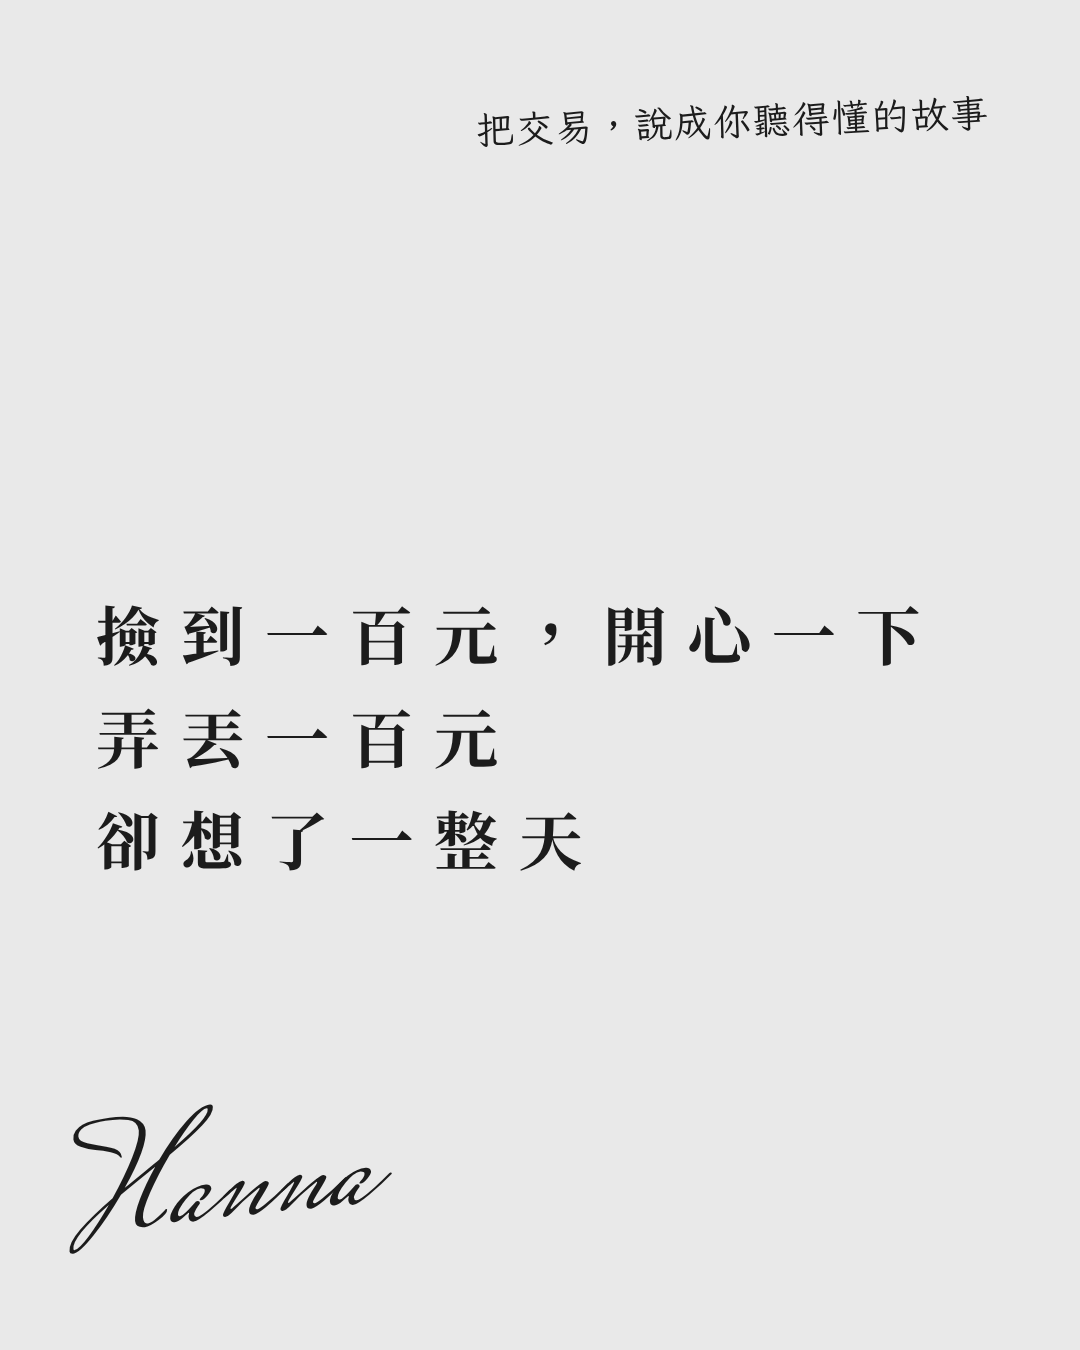
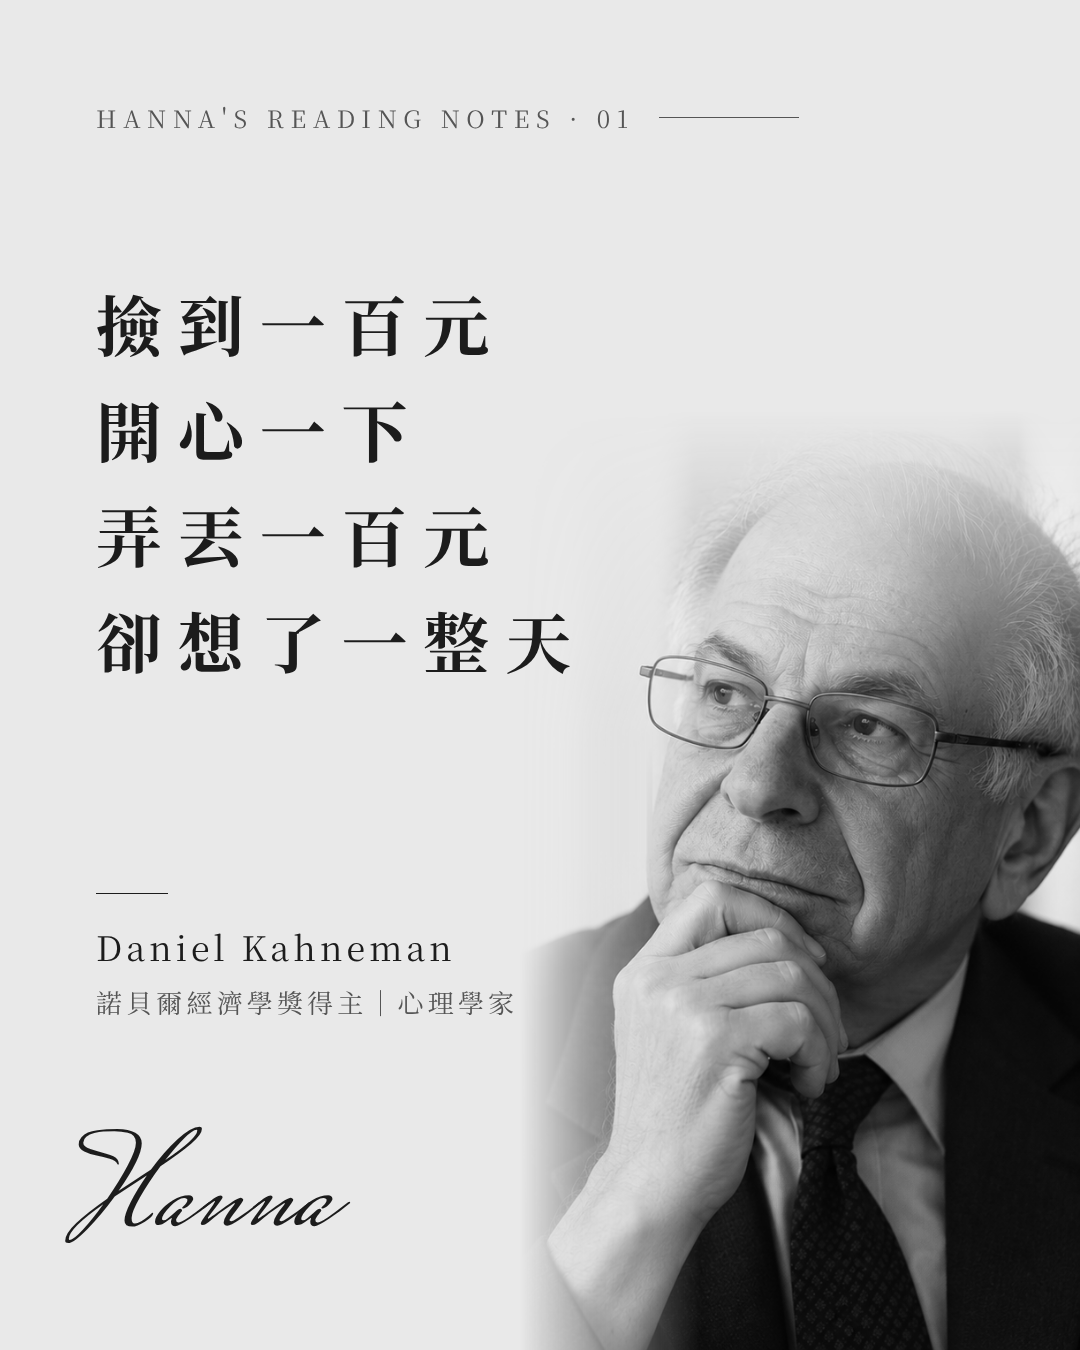
輪播貼文：排版改為水平、封面加入人物照、最後一張加入儲存引導
Claude-Session: https://claude.ai/code/session_01AFjNkU8XspDCm6xvkskaQj

diff --git a/IP經營/輪播_損失厭惡/slides.html b/IP經營/輪播_損失厭惡/slides.html
@@ -2,7 +2,7 @@
 <html lang="zh-Hant">
 <head>
 <meta charset="utf-8">
-<link href="https://fonts.googleapis.com/css2?family=Noto+Serif+TC:wght@400;600;700&family=LXGW+WenKai+TC&family=Mrs+Saint+Delafield&display=block" rel="stylesheet">
+<link href="https://fonts.googleapis.com/css2?family=Noto+Serif+TC:wght@400;600;700&family=Mrs+Saint+Delafield&display=block" rel="stylesheet">
 <style>
   :root { --bg: #e9e9e9; --ink: #1c1c1c; --soft: #555; }
   * { box-sizing: border-box; margin: 0; padding: 0; }
@@ -13,34 +13,51 @@
     display: flex; flex-direction: column; justify-content: center;
     padding: 120px 96px;
   }
-  .tagline {
-    position: absolute; top: 96px; right: 90px;
-    font-family: "LXGW WenKai TC", serif; font-size: 38px;
-    transform: rotate(-2deg); letter-spacing: 0.04em;
+  .series {
+    position: absolute; top: 100px; left: 96px;
+    display: flex; align-items: center; gap: 24px;
+    font-size: 24px; letter-spacing: 0.28em; color: var(--soft);
   }
+  .series::after { content: ""; width: 140px; height: 1px; background: var(--soft); }
+  .person {
+    position: absolute; right: 0; bottom: 0; width: 560px; height: 940px;
+    background: url(person.png) right bottom / cover no-repeat;
+    -webkit-mask-image: linear-gradient(to right, transparent 0%, #000 32%), linear-gradient(to bottom, transparent 0%, #000 34%);
+    -webkit-mask-composite: source-in; mask-composite: intersect;
+  }
+  .who { position: absolute; left: 96px; bottom: 330px; }
+  .who::before { content: ""; display: block; width: 72px; height: 1px; background: var(--ink); margin-bottom: 28px; }
+  .who .en { font-size: 34px; letter-spacing: 0.12em; margin-bottom: 12px; }
+  .who .zh { font-size: 26px; letter-spacing: 0.16em; color: var(--soft); }
+  .save { margin-top: 1.2em; padding-top: 1.1em; border-top: 1px solid #b5b5b5; }
+  .save .t { display: flex; align-items: center; gap: 18px; font-weight: 700; font-size: 1.1em; margin-bottom: 0.5em; }
+  .save svg { width: 1em; height: 1.2em; }
   .sign {
     position: absolute; left: 70px; bottom: 80px;
-    font-family: "Mrs Saint Delafield", cursive; font-size: 150px;
-    transform: rotate(-6deg); line-height: 1;
+    font-family: "Mrs Saint Delafield", cursive; font-size: 130px; line-height: 1;
   }
+  .cover { justify-content: flex-start; }
   .cover h1 {
-    font-weight: 700; font-size: 64px; line-height: 1.6;
-    letter-spacing: 0.32em; margin-top: 120px;
+    position: relative; z-index: 1;
+    font-weight: 700; font-size: 66px; line-height: 1.6;
+    letter-spacing: 0.24em; margin-top: 150px;
   }
   .body { font-size: 40px; line-height: 1.8; letter-spacing: 0.14em; }
   .body h2 { font-weight: 700; font-size: 46px; letter-spacing: 0.12em; margin-bottom: 1.1em; line-height: 1.5; }
   .body p { margin-bottom: 1.05em; }
   .body p:last-child { margin-bottom: 0; }
   .body .en { letter-spacing: 0.02em; }
-  .body .note { font-size: 26px; color: var(--soft); letter-spacing: 0.1em; }
+  .body .note { margin-top: 1.6em; font-size: 26px; color: var(--soft); letter-spacing: 0.1em; }
   .end .sign { left: auto; right: 80px; bottom: 70px; font-size: 120px; }
 </style>
 </head>
 <body>
 
 <section class="slide cover">
-  <div class="tagline">把交易，說成你聽得懂的故事</div>
-  <h1>撿到一百元，開心一下<br>弄丟一百元<br>卻想了一整天</h1>
+  <div class="series">HANNA'S READING NOTES · 01</div>
+  <h1>撿到一百元<br>開心一下<br>弄丟一百元<br>卻想了一整天</h1>
+  <div class="person"></div>
+  <div class="who"><div class="en">Daniel Kahneman</div><div class="zh">諾貝爾經濟學獎得主｜心理學家</div></div>
   <div class="sign">Hanna</div>
 </section>
 
@@ -107,8 +124,11 @@
 <section class="slide end"><div class="body">
   <p>下次再聽見自己說：<br>「再等一下，應該會回來。」</p>
   <p>試著在後面補上一句：<br>「那如果它不回來呢？」</p>
-  <p>已經虧掉的，改變不了。<br>接下來願意承擔多少，<br>還來得及決定。</p>
   <p>我們要管理的是風險，<br>不是證明自己每次都對。</p>
+  <div class="save">
+    <p class="t"><svg viewBox="0 0 20 24"><path d="M2 1h16v22l-8-6-8 6z" fill="none" stroke="currentColor" stroke-width="2.2" stroke-linejoin="round"/></svg>先把這篇存起來</p>
+    <p>下次捨不得停損時，<br>打開來，再問自己一次。</p>
+  </div>
   <p class="note">僅為個人觀點分享，不構成投資建議</p>
 </div><div class="sign">Hanna</div></section>
 
@@ -116,7 +136,7 @@
   // 內容太長時自動縮小字級，確保每張都放得下
   document.fonts.ready.then(() => {
     document.querySelectorAll('.slide .body').forEach(b => {
-      const slide = b.parentElement, max = slide.clientHeight - 240;
+      const slide = b.parentElement, max = slide.clientHeight - 200;
       let size = 40;
       while (b.scrollHeight > max && size > 30) { size -= 1; b.style.fontSize = size + 'px'; }
     });
